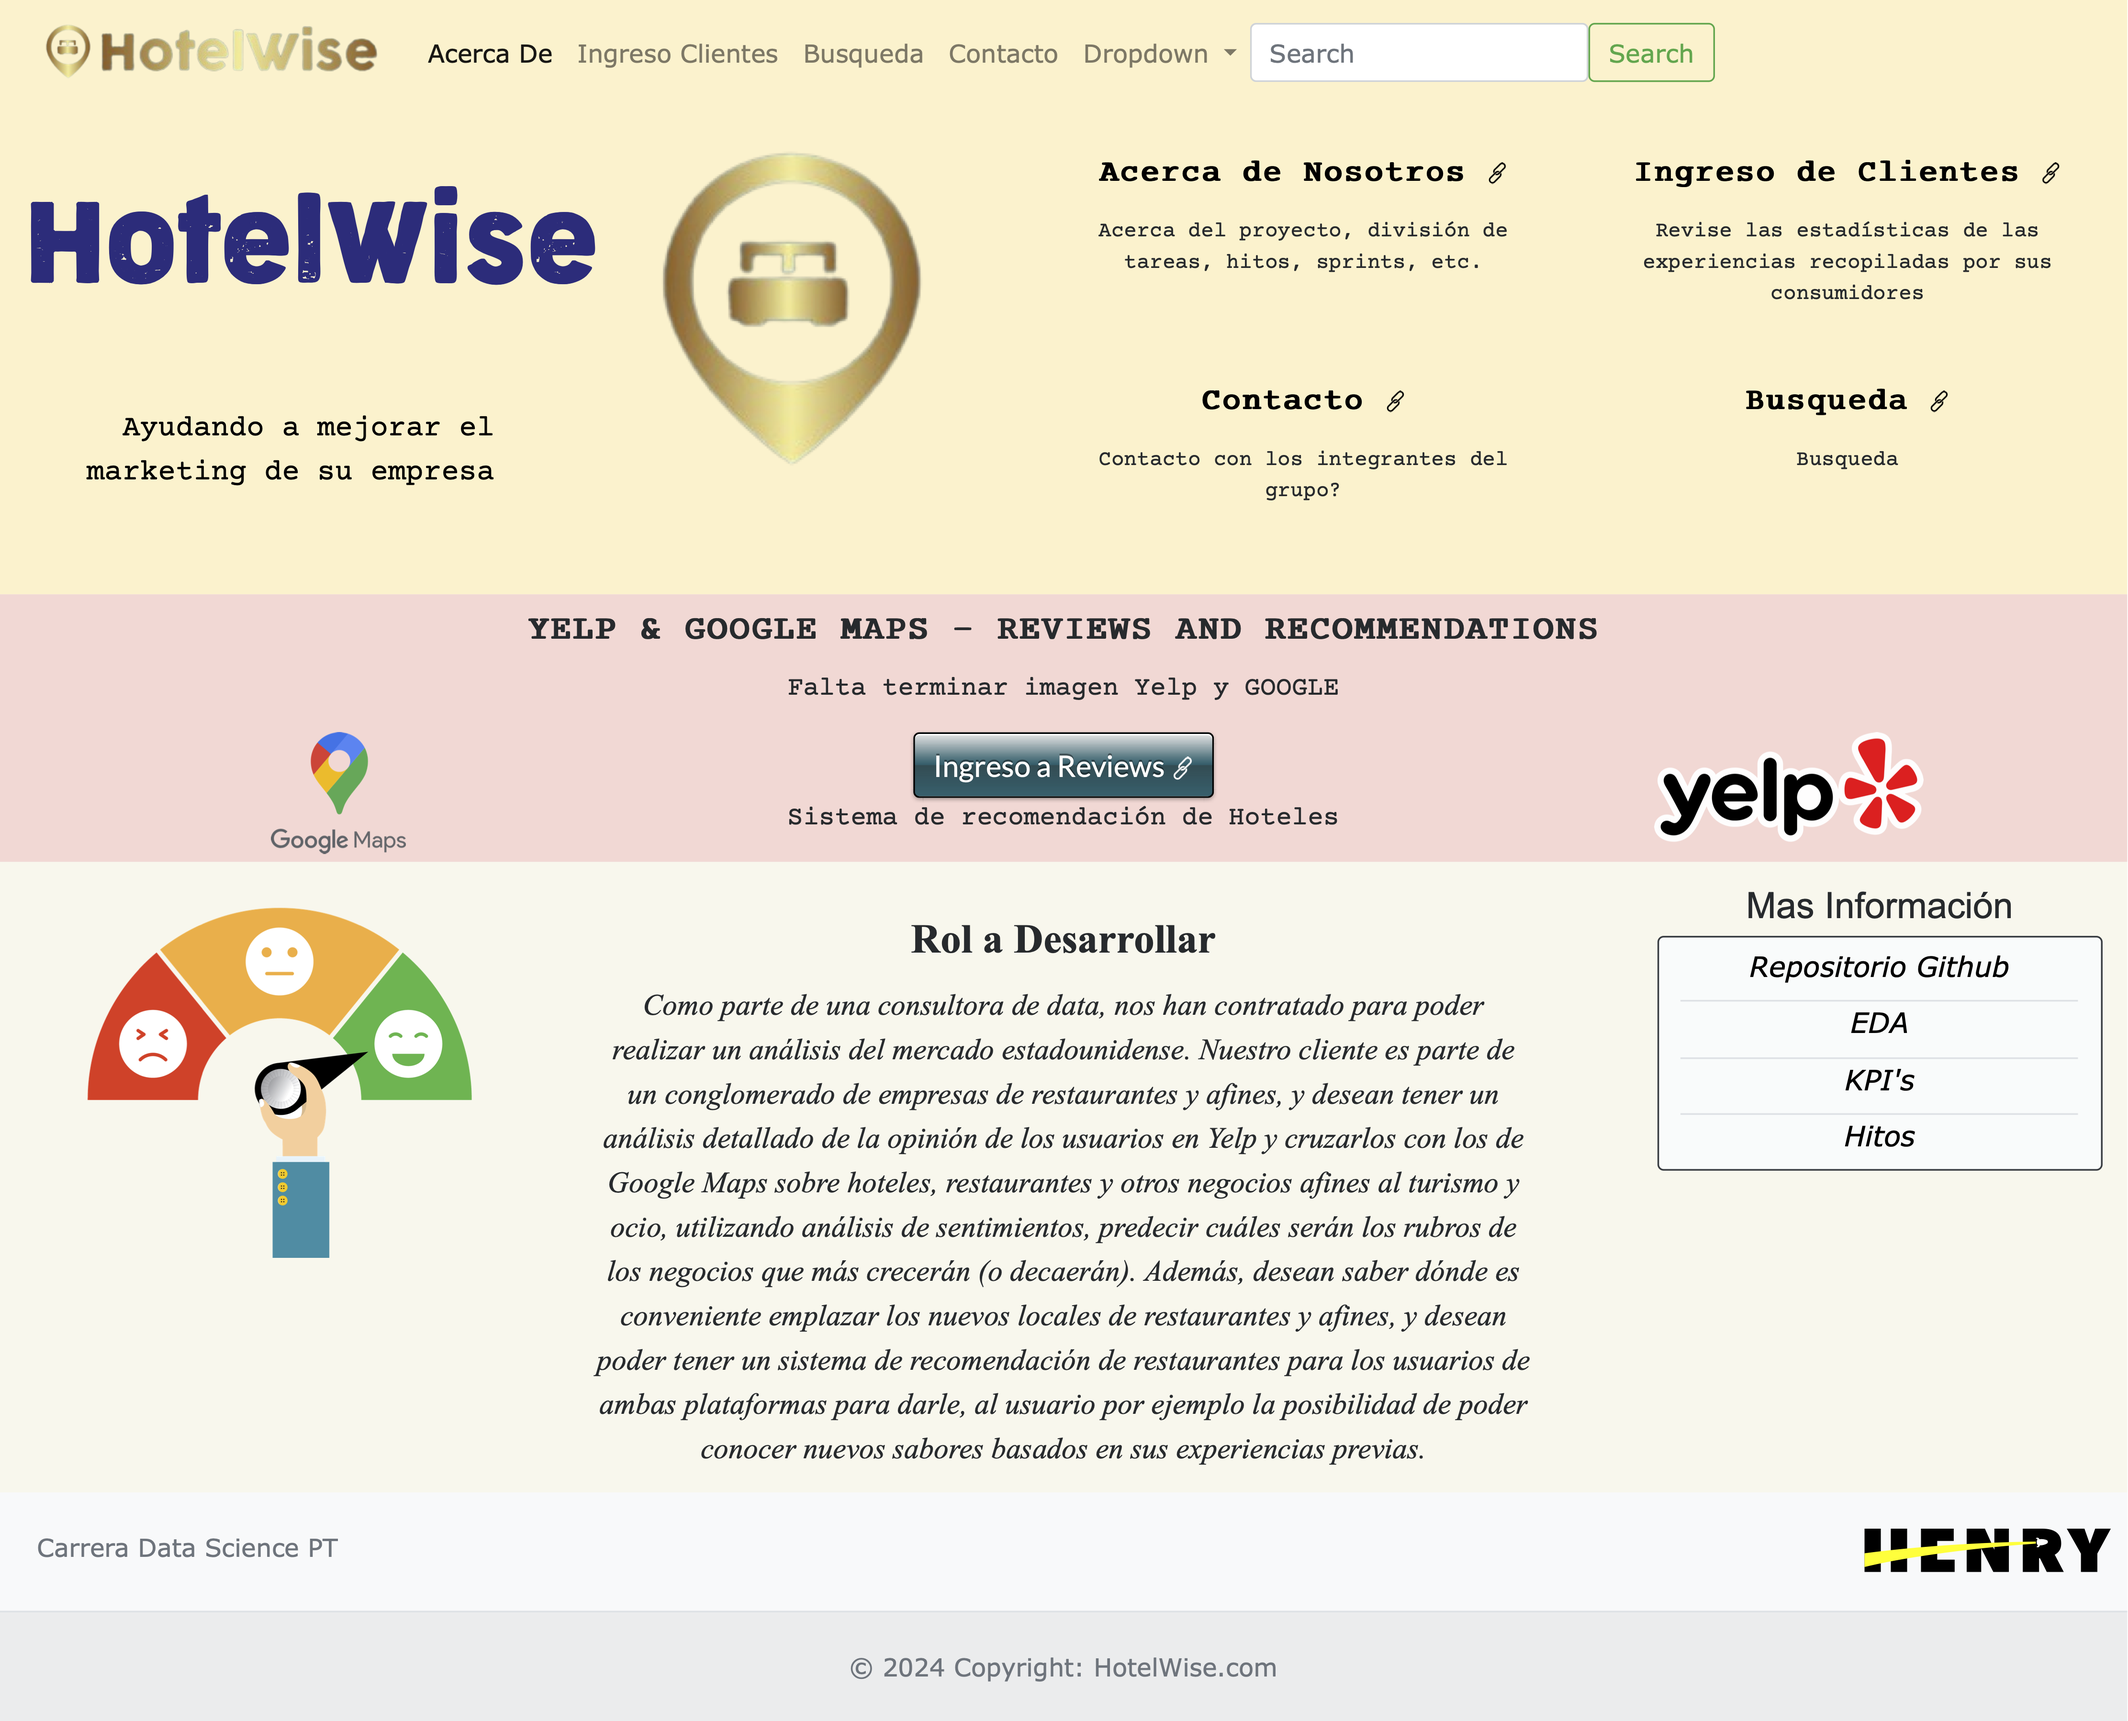
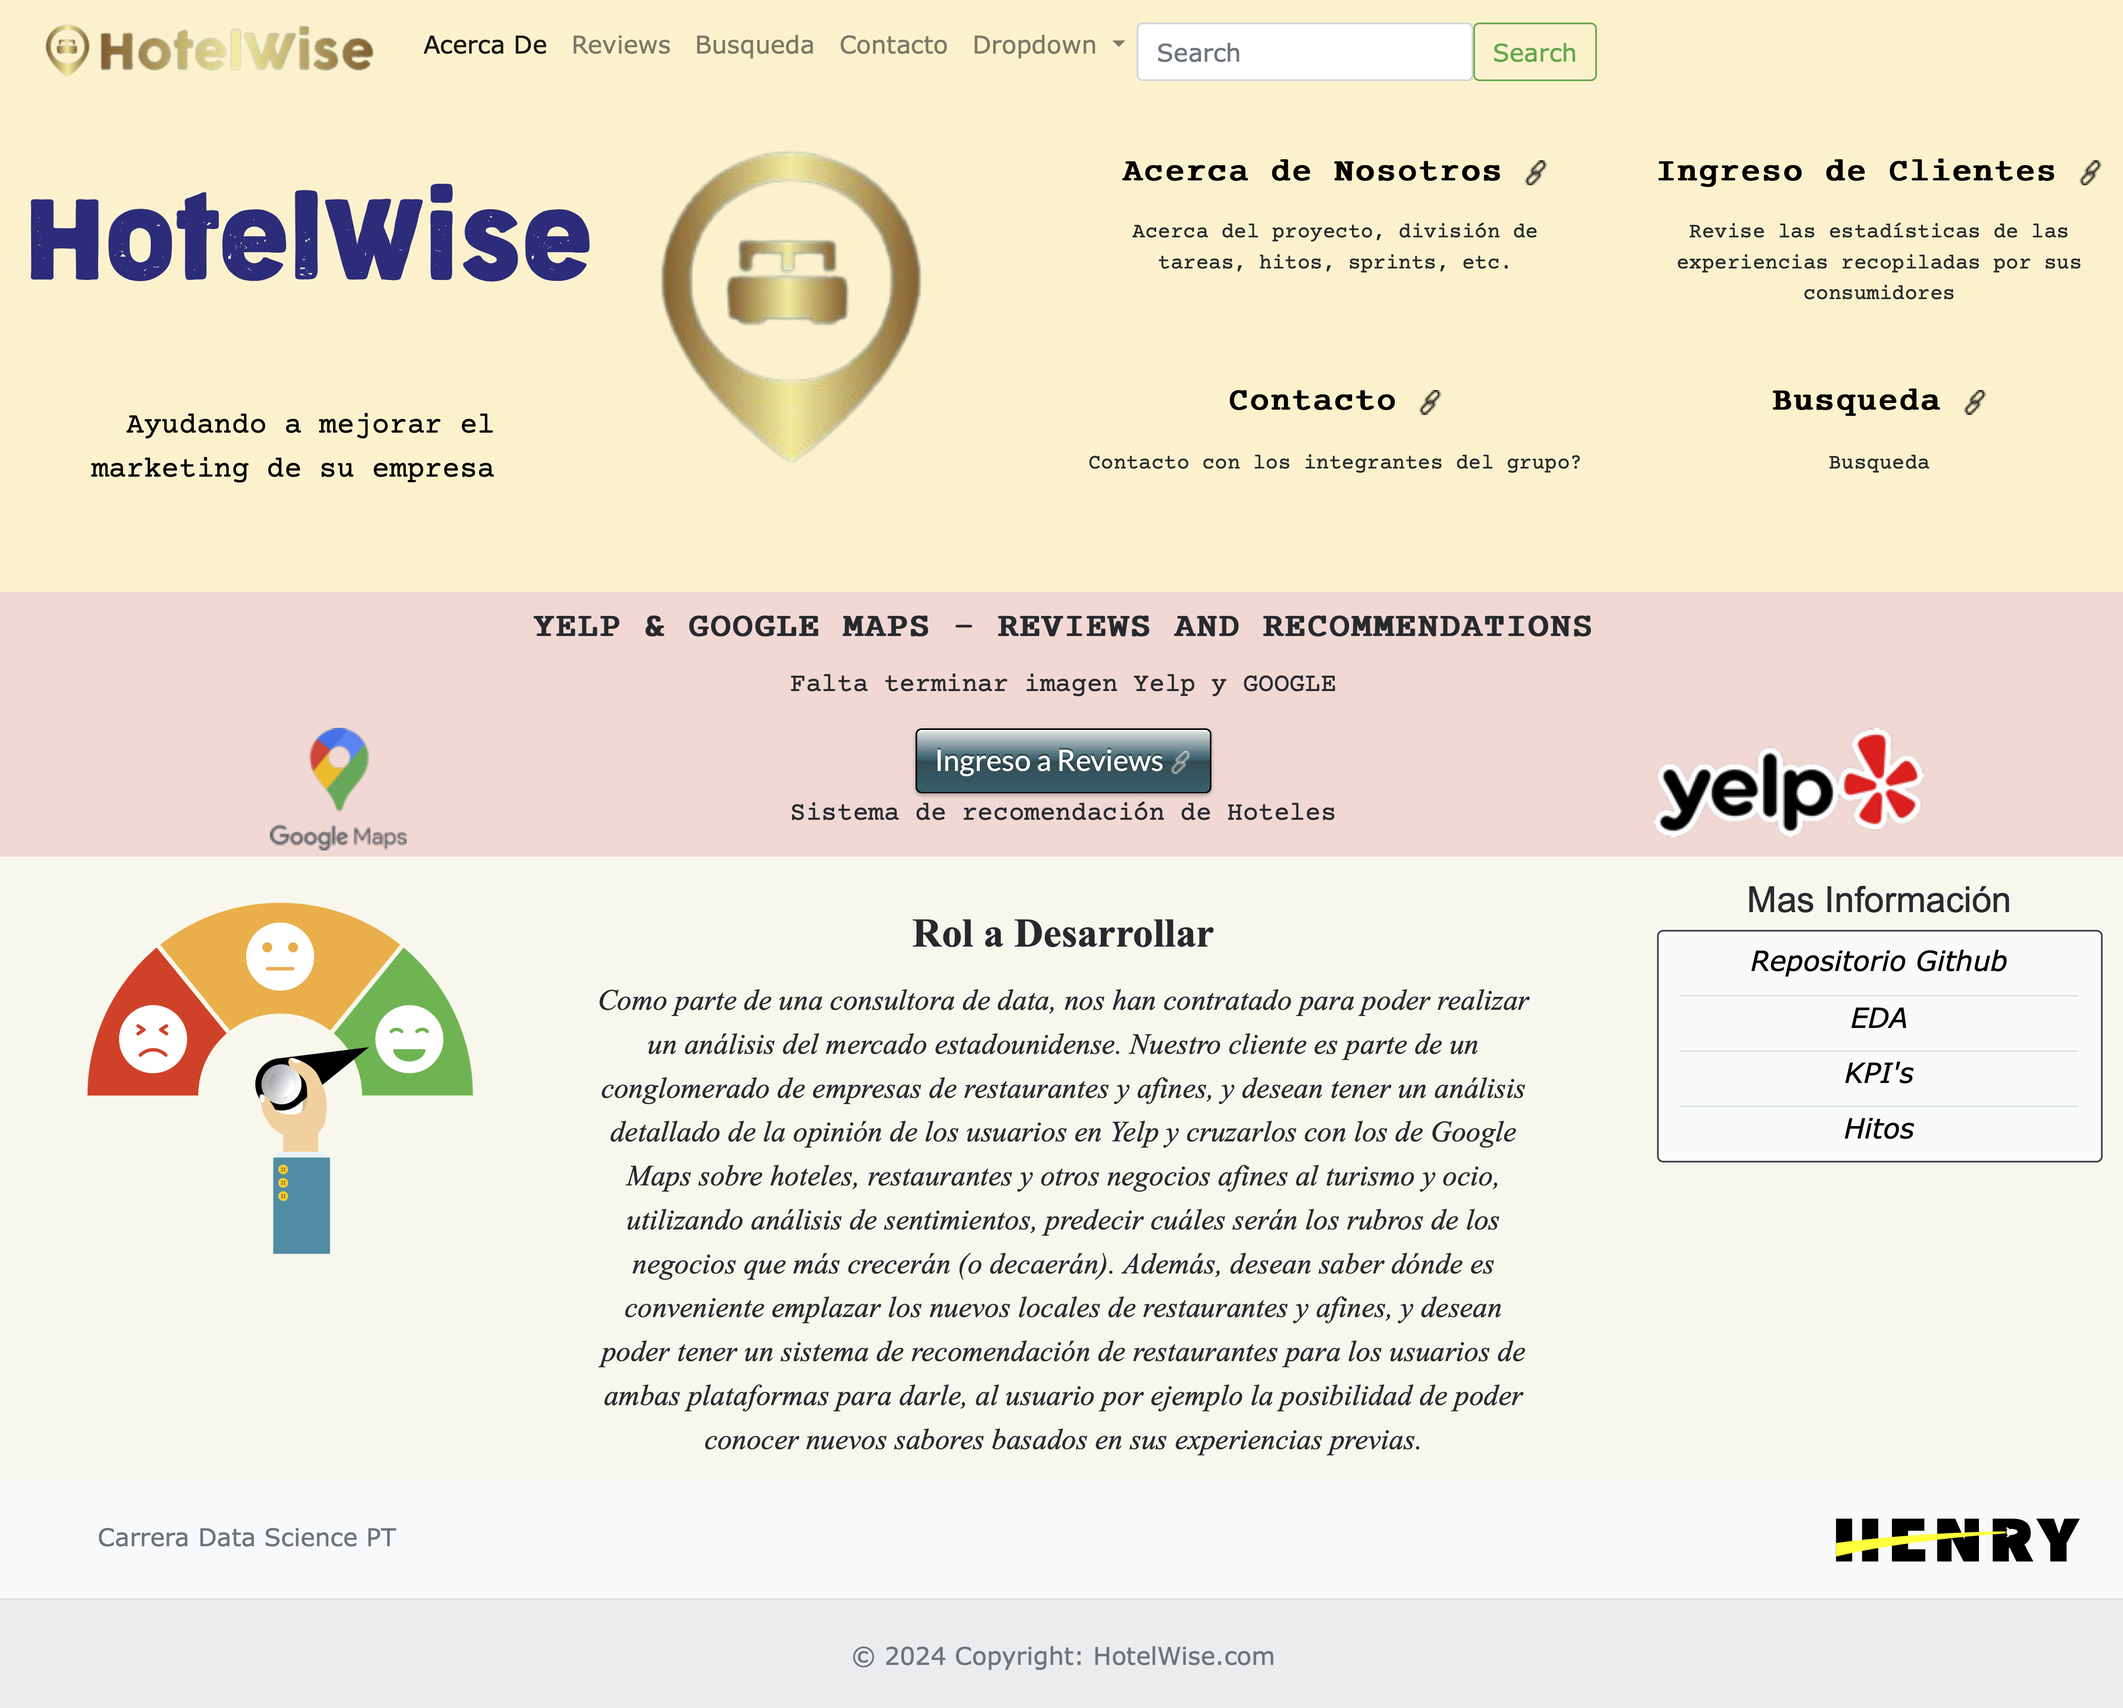
commit

diff --git a/HotelWise/home/templates/base.html b/HotelWise/home/templates/base.html
@@ -111,20 +111,17 @@
             <section
                 class="d-flex justify-content-center justify-content-lg-between
                 p-4 border-bottom">
-                <div class="me-5 d-none d-md-block">
+                <div class="me-5 d-none d-md-block" style="margin-left: 1cm;">
                     <span>Carrera
                         Data Science PT</span>
                 </div>
-
-                <div class="text-md-center" style="margin-right: 1cm;">
+                <div class="text-md-center" style="margin-right: 1.5cm;">
                     <a href="https://www.soyhenry.com/">
                         <img src="/static/imagenes/HenryLogo.svg"
                             class="img-responsive" width="150%"
                             alt="Responsive image">
                     </a>
                 </div>
-                
-                
             </section>
 
             <div class="text-center p-4" style="background-color: rgba(0, 0, 0,

diff --git a/HotelWise/home/templates/reviews.html b/HotelWise/home/templates/reviews.html
@@ -1,5 +1,5 @@
 {% extends "base.html" %}
-{% block title %}HOME{% endblock %}
+{% block title %}REVIEWS{% endblock %}
 {% load static %}
 
 {%block scriptshead%}
@@ -36,7 +36,7 @@
             </div>
             <div class="row">
                 <div class="col-sm-4">
-                    <p class="centro3">Seleccione cantidad <i class="fas fa-star"></i>:</p>
+                    <p class="centro3">Seleccione cantidad <i class="fas fa-star estrella-amarilla"></i>:</p>
                     <div style="display: flex; flex-direction: column;  align-items: center;">
                         <div class="dropdown">
                             <button class="btn btn-secondary dropdown-toggle" type="button" data-bs-toggle="dropdown" aria-expanded="false">

diff --git a/HotelWise/home/static/css/style_base.css b/HotelWise/home/static/css/style_base.css
@@ -48,7 +48,7 @@ h6.uno {
     font-weight: bold;
     text-align: center;
     margin-top: 10%;
-    margin-right: 13%;
+    margin-right: 13;
 }
 
 h6.centro {
@@ -110,7 +110,7 @@ p.dos {
     font-weight: normal;
     text-align: center;
     margin-top: 5%;
-    margin-right: 13%;
+    margin-right: 13;
 }
 
 p.centro1 {
@@ -257,4 +257,11 @@ div.incardpos {
     resize: none;
     /* Evita que el usuario pueda redimensionar el input */
 
+}
+
+.estrella-amarilla {
+    color: rgb(234, 255, 0);
+    /* Color amarillo */
+    text-shadow: 3px 3px 4px rgba(0, 0, 0, 0.5);
+    /* Sombra */
 }
